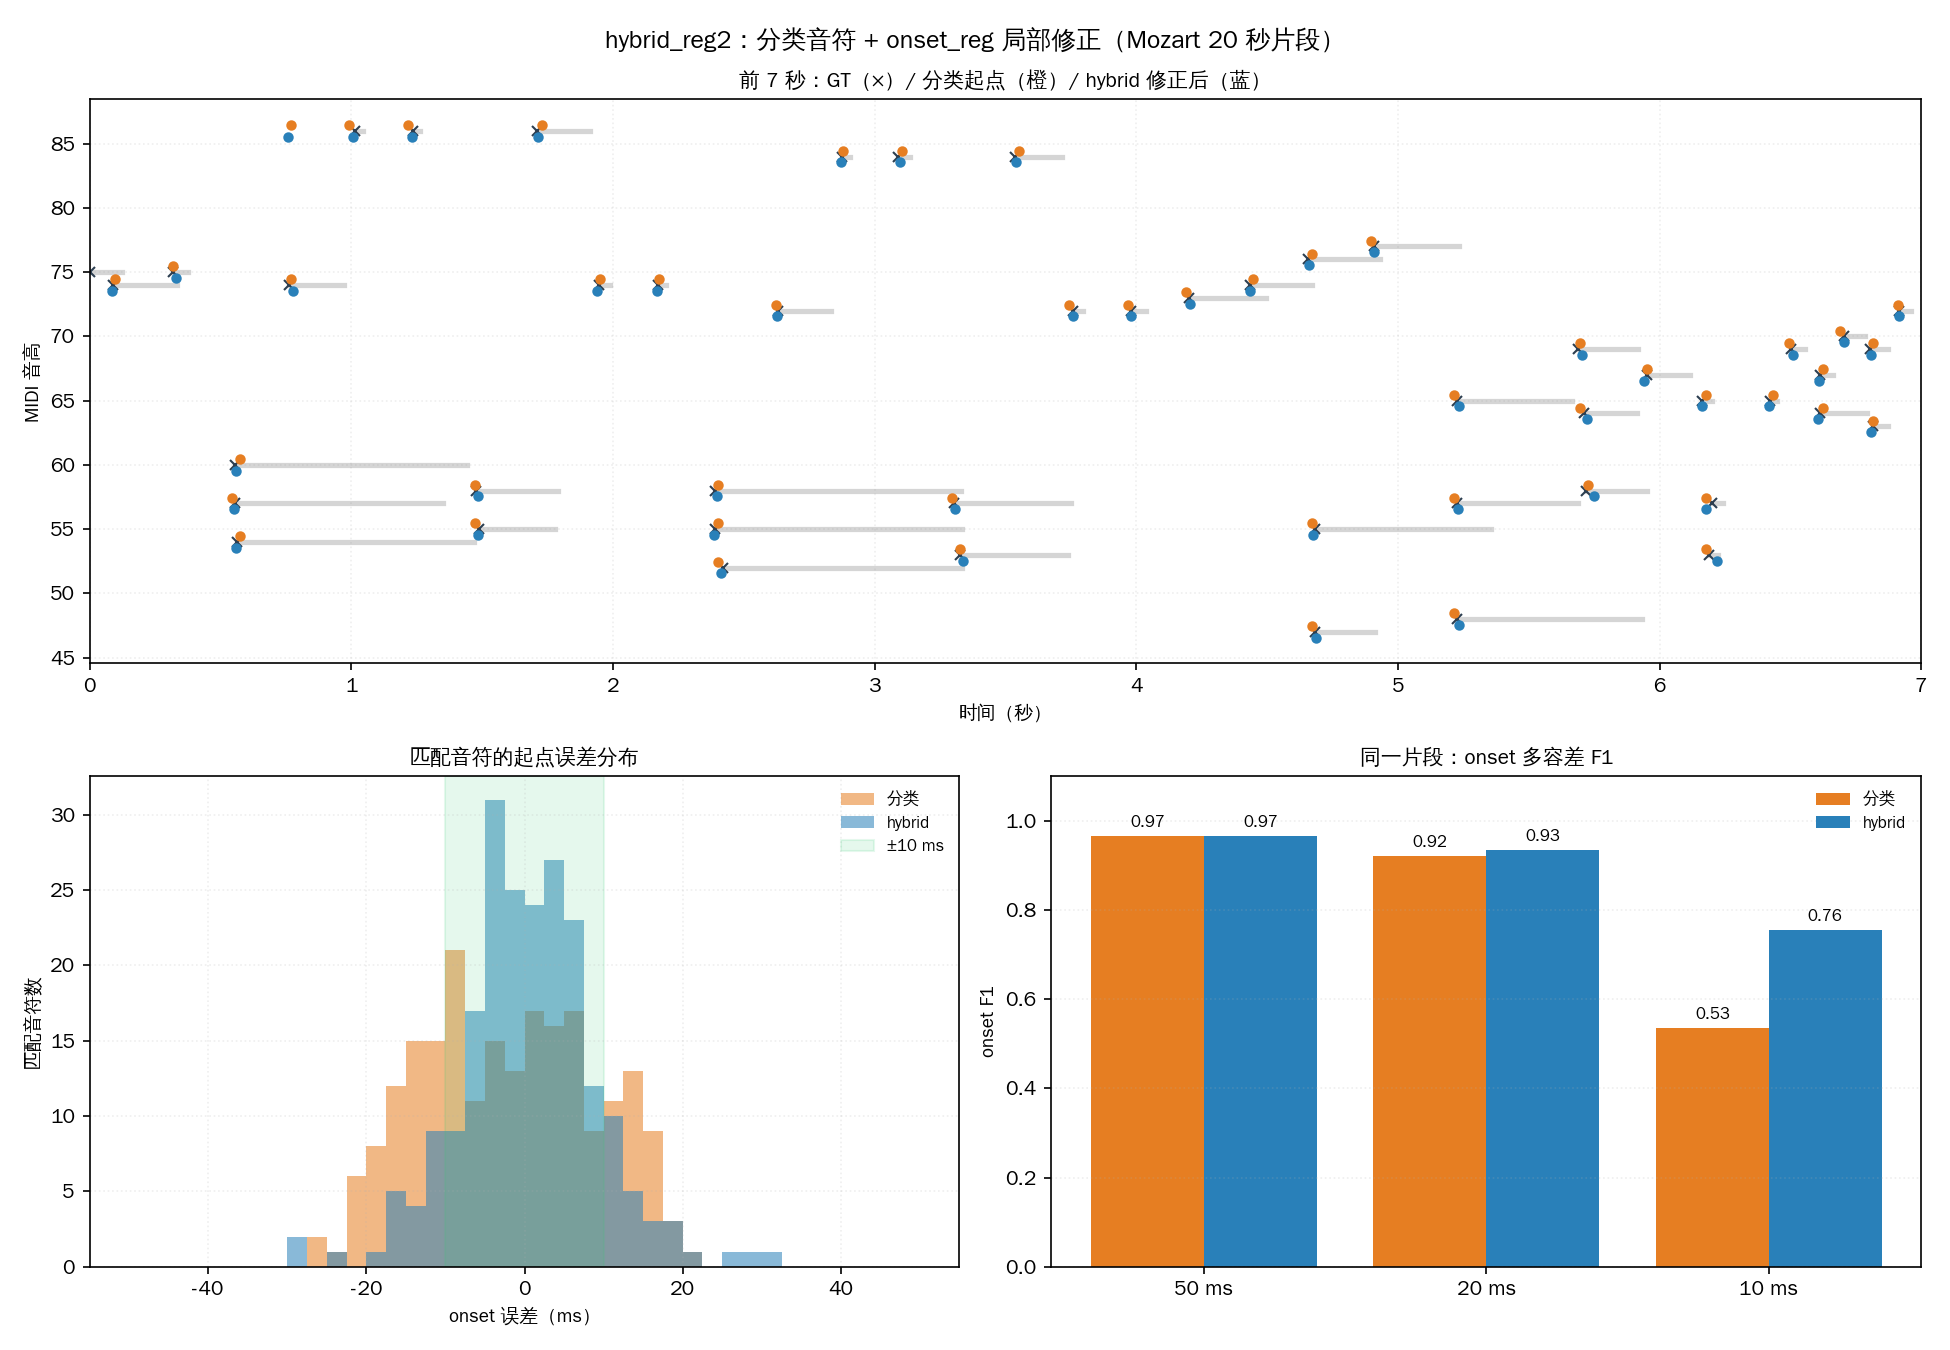
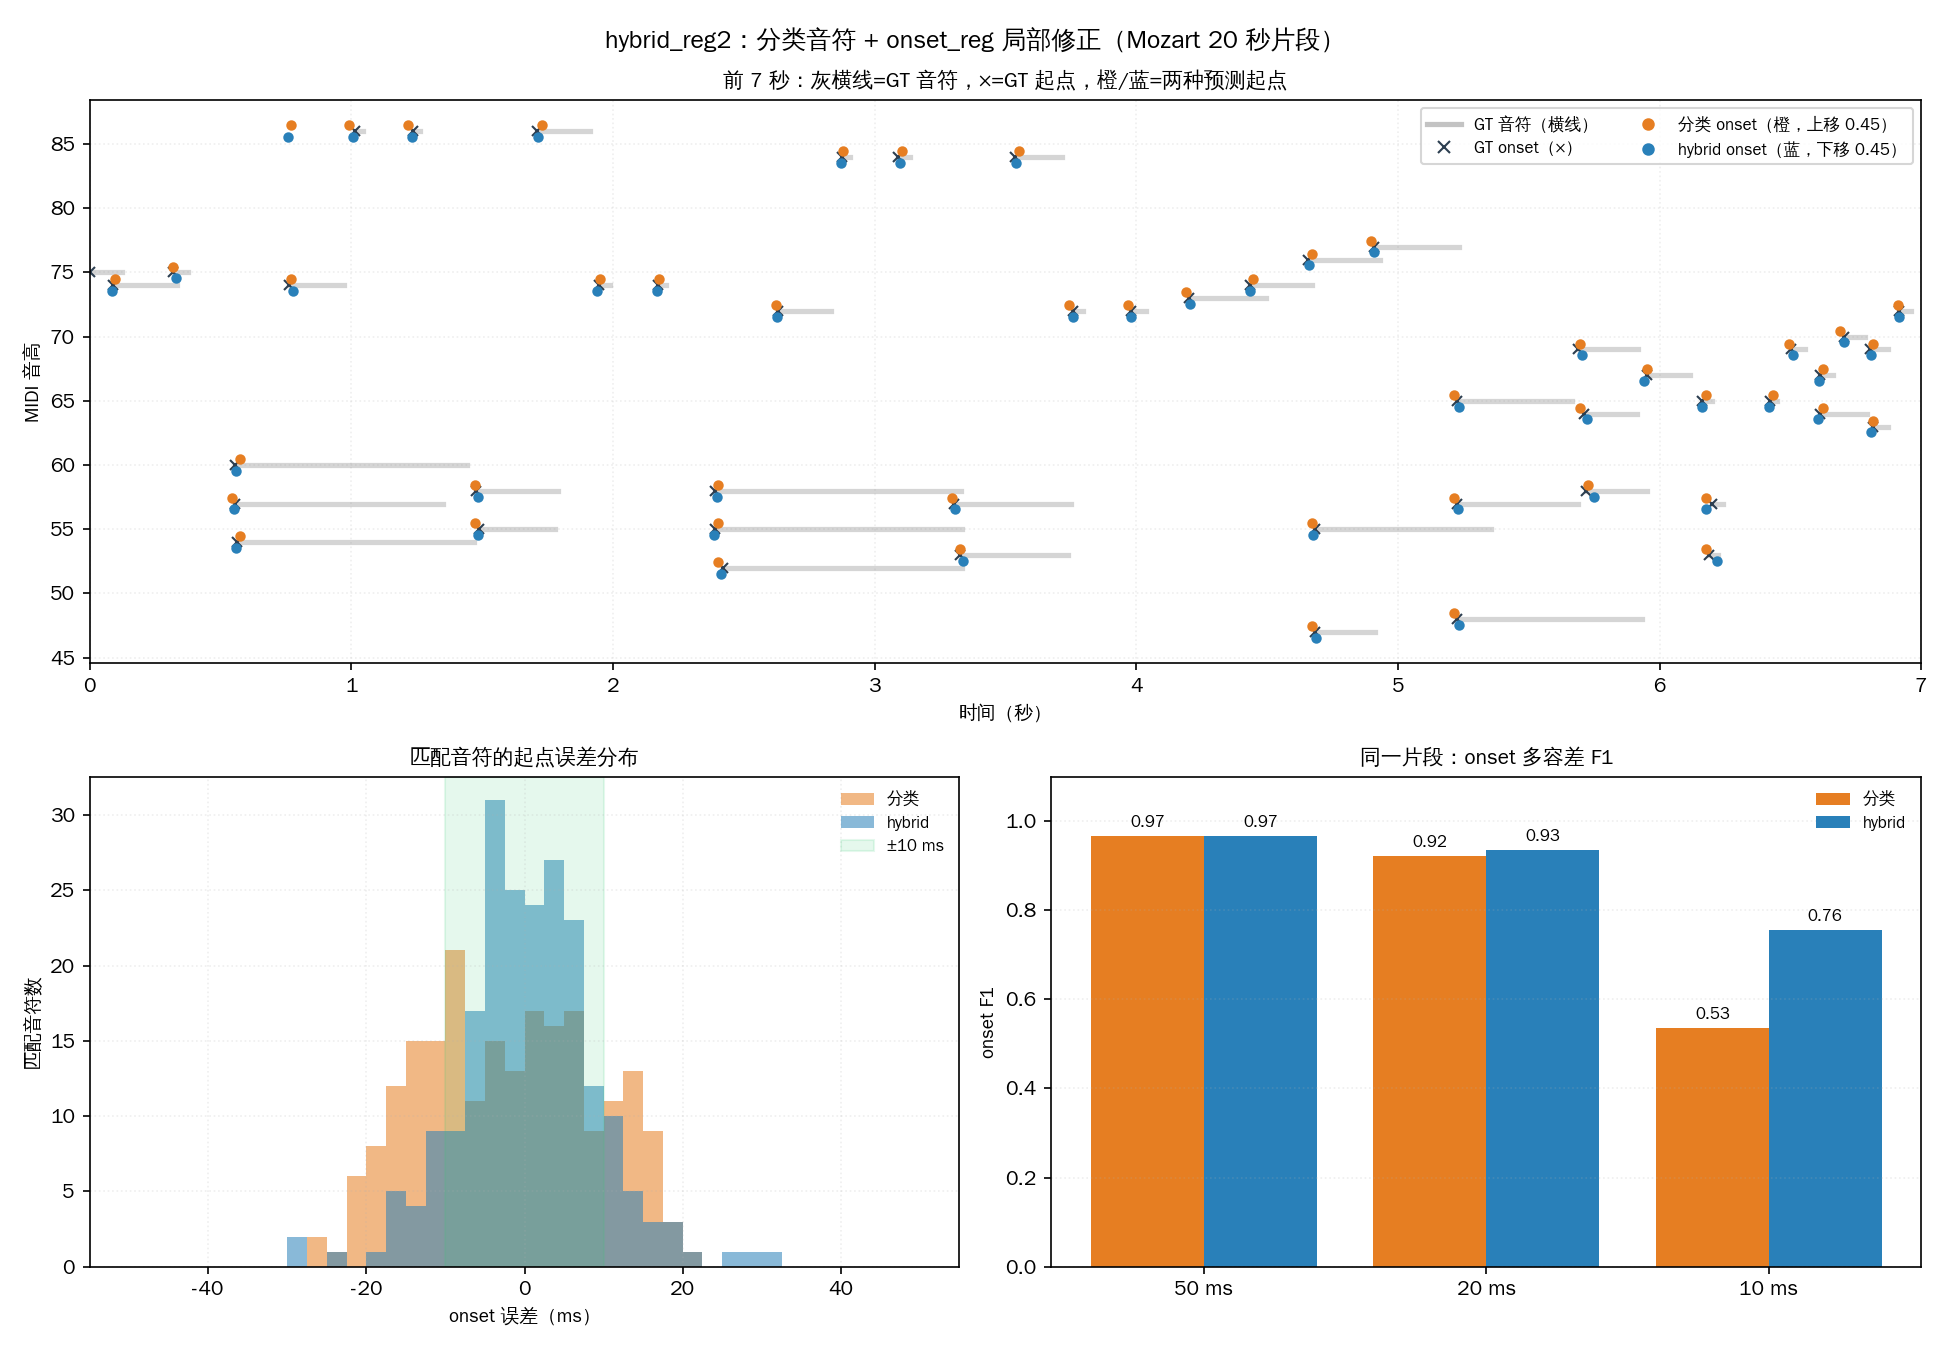
docs: 解释 32 ms 帧的亚帧插值并更新 hybrid 图例
- training/2026-11-11_duration_offset_hybrid.md 增加 3.2.2：用事件 11 ms 的具体数值说明三角目标、三帧插值与 10 ms 容差
- 更新 docs/figs/43_hybrid_onset_improvement.png：第一栏增加图例，明确灰横线=GT 音符、×=GT onset、橙/蓝=预测起点
- 补充“回归不是加密网格，而是编码帧间位置；同一帧内多个事件仍无法分开”的边界说明

co-authored by: DeepSeek Harness 0.2.2-rc.1 (deepseek-flash / DeepSeek-V41-Flash)

Changed region(s): [[0.3692, 0.0311, 0.6462, 0.0933], [0.7385, 0.0622, 0.9846, 0.1244]]

diff --git a/training/2026-11-11_duration_offset_hybrid.md b/training/2026-11-11_duration_offset_hybrid.md
@@ -108,6 +108,32 @@ hybrid 修正的实际效果（Mozart 20 秒片段）：
 - 左下：匹配音符的起点误差分布，蓝色明显更集中到 0 附近；
 - 右下：该片段 onset10 从 **0.53 提到 0.76**，onset50 保持在 0.97。
 
+### 3.2.2 为什么 32 ms 帧能读出 11 ms
+
+数据 v4 并没有把帧率变密：回归头的输出仍然是 `(T, 88)`，每帧每键一个数；
+变化的是这个数不再是 0/1，而是「到最近事件的三角距离」。
+
+以事件在 11 ms、帧中心在 0/32 ms 为例，J=5：
+
+| 帧中心 | 到事件距离 | 回归目标 `g=1-|Δ|/(5×32)` |
+|---:|---:|---:|
+| -32 ms | 43 ms | 0.731 |
+| 0 ms | 11 ms | 0.931 |
+| 32 ms | 21 ms | 0.869 |
+
+推理时取峰值帧 B=0、左右邻帧 A=-32、C=32，做三角插值：
+
+```text
+δ = 0.5 × 32 × (y_C - y_A) / (y_B - y_A)
+  = 16 × (0.869 - 0.731) / (0.931 - 0.731)
+  = 11.0 ms
+```
+
+分类解码只能给出 0 ms 或 32 ms；11 ms 的 GT 在 10 ms 容差下必然算错。
+回归把这些帧间信息编码进相邻帧的数值，插值后就能恢复 11 ms。
+注意：这不是把离散网格加密，而是用平滑目标的**帧间关系**恢复亚帧位置；
+两个事件如果落在同一帧/同一键上，仍然无法靠插值分开。
+
 ## 4. 解释
 
 - **offset 标签**：1 帧监督太稀，2 帧仍是最佳折中；继续加 loss 只是让模型更相信同样稀疏的目标，不能补信息。
